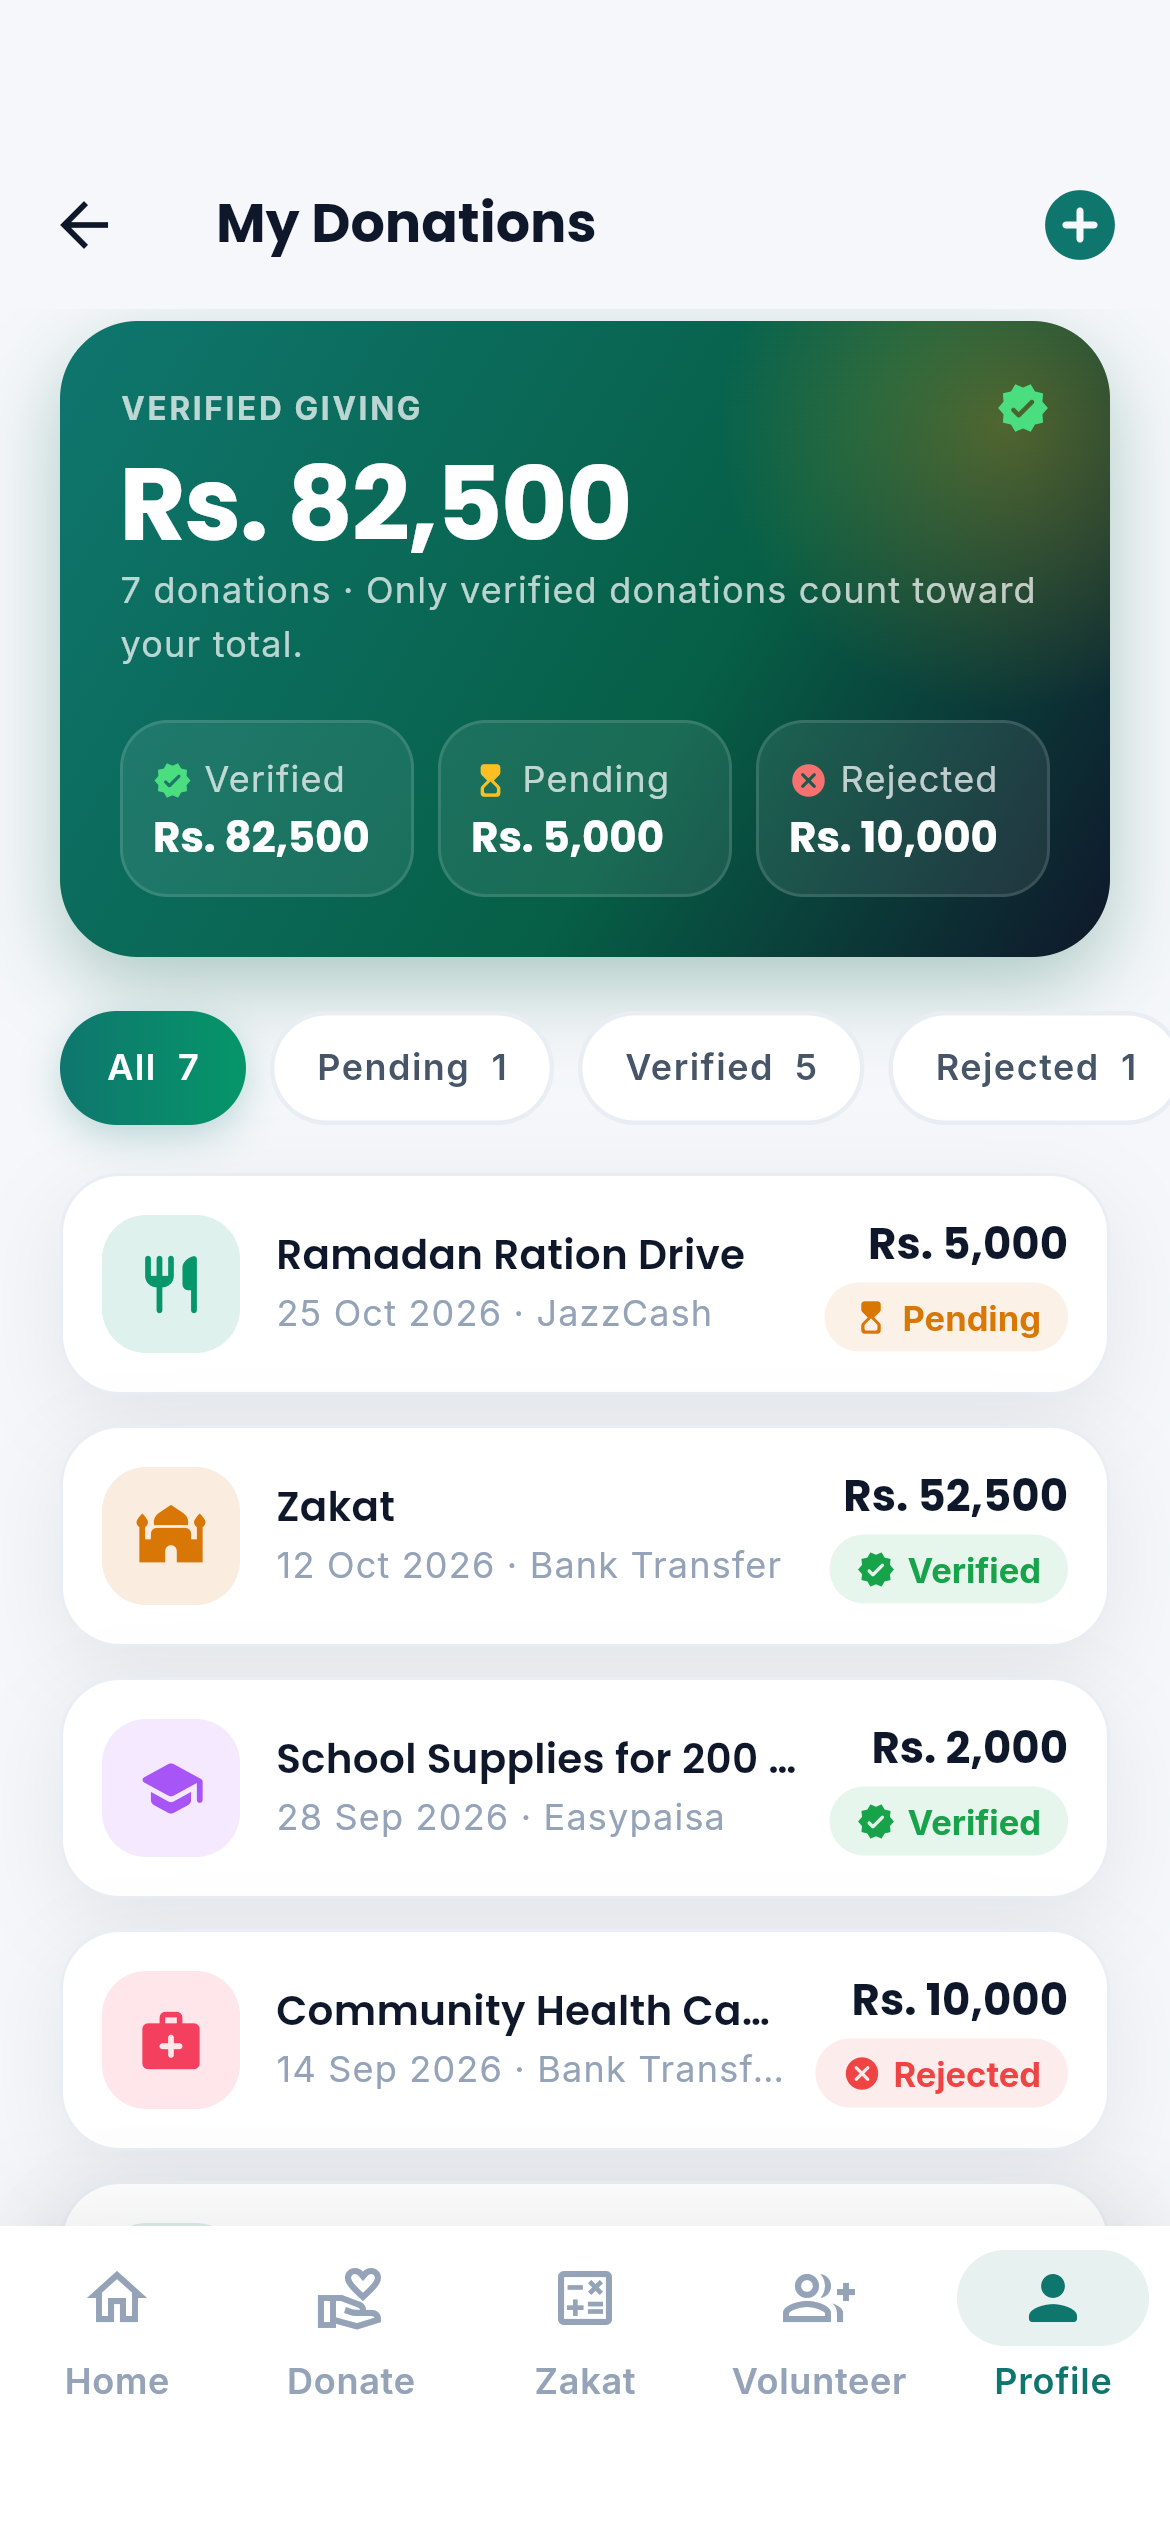
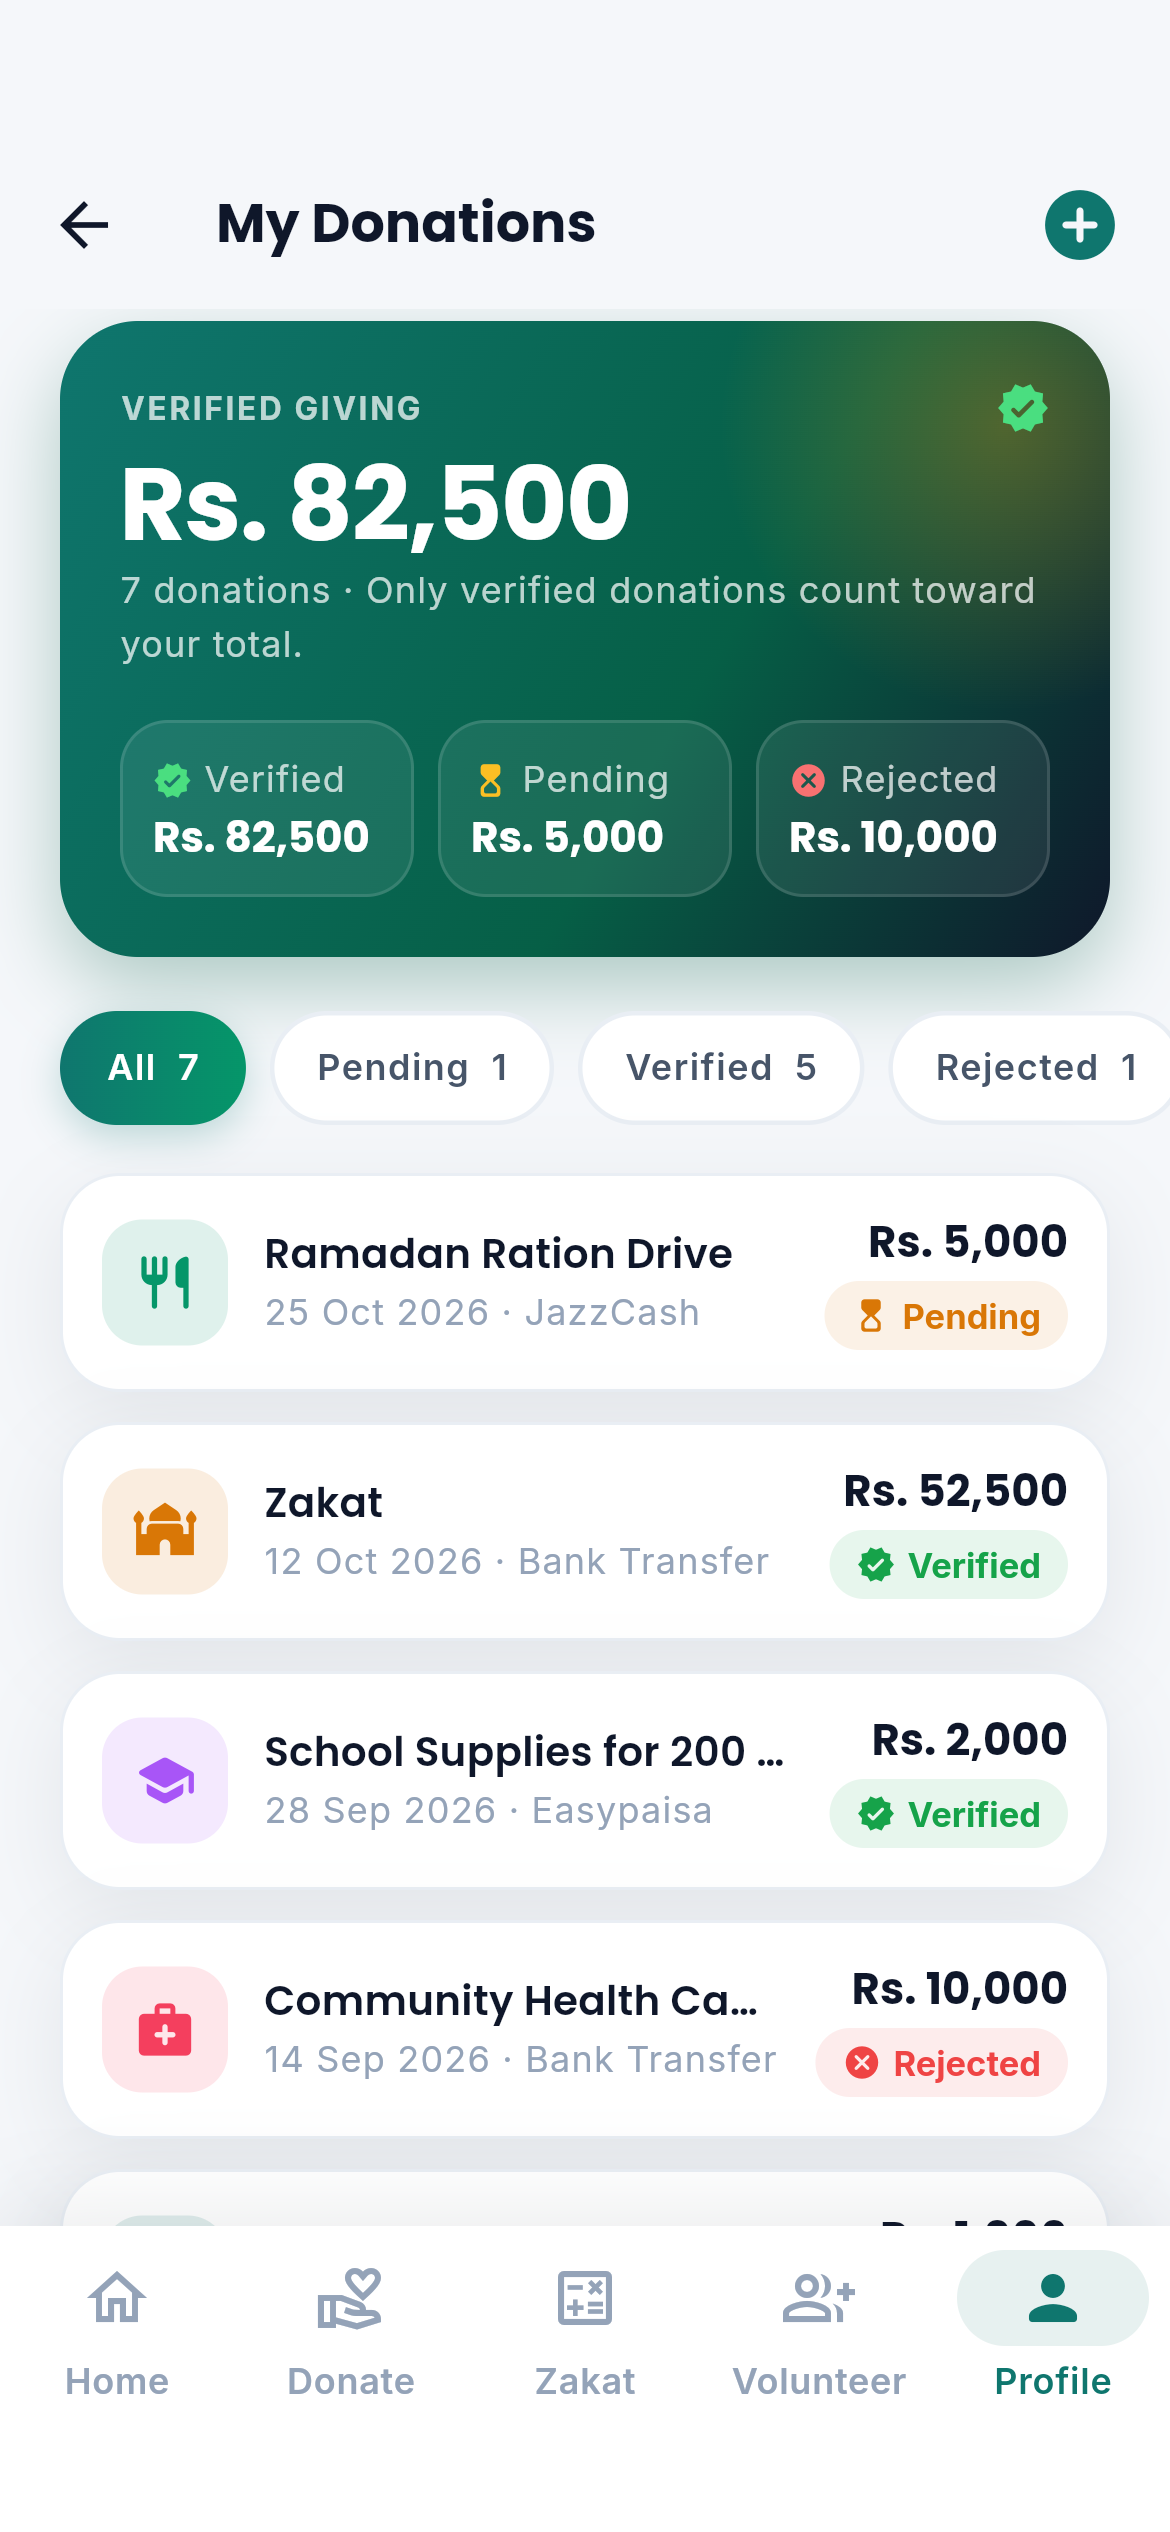
Complete remaining flows (work in progress)

diff --git a/lib/screens/volunteer_screen.dart b/lib/screens/volunteer_screen.dart
@@ -580,38 +580,42 @@ class _VolunteerHero extends StatelessWidget {
               ),
             ),
             const SizedBox(height: 16),
-            Row(
-              children: [
-                for (var i = 0; i < stats.length; i++) ...[
-                  if (i > 0) const SizedBox(width: 10),
-                  Expanded(
-                    child: GlassPanel(
-                      radius: 18,
-                      padding: const EdgeInsets.symmetric(
-                        vertical: 10,
-                        horizontal: 6,
-                      ),
-                      child: Column(
-                        children: [
-                          Text(
-                            stats[i].$1,
-                            textDirection: TextDirection.ltr,
-                            style: AppTheme.figure(18, color: Colors.white),
-                          ),
-                          Text(
-                            stats[i].$2,
-                            maxLines: 1,
-                            overflow: TextOverflow.ellipsis,
-                            style: context.text.bodySmall?.copyWith(
-                              color: Colors.white.withValues(alpha: 0.72),
+            IntrinsicHeight(
+              child: Row(
+                crossAxisAlignment: CrossAxisAlignment.stretch,
+                children: [
+                  for (var i = 0; i < stats.length; i++) ...[
+                    if (i > 0) const SizedBox(width: 10),
+                    Expanded(
+                      child: GlassPanel(
+                        radius: 18,
+                        padding: const EdgeInsets.symmetric(
+                          vertical: 10,
+                          horizontal: 6,
+                        ),
+                        child: Column(
+                          children: [
+                            Text(
+                              stats[i].$1,
+                              textDirection: TextDirection.ltr,
+                              style: AppTheme.figure(18, color: Colors.white),
                             ),
-                          ),
-                        ],
+                            Text(
+                              stats[i].$2,
+                              maxLines: 2,
+                              textAlign: TextAlign.center,
+                              style: context.text.bodySmall?.copyWith(
+                                color: Colors.white.withValues(alpha: 0.72),
+                                height: context.isUrdu ? 1.7 : 1.3,
+                              ),
+                            ),
+                          ],
+                        ),
                       ),
                     ),
-                  ),
+                  ],
                 ],
-              ],
+              ),
             ),
           ],
         ),

diff --git a/lib/data/strings.dart b/lib/data/strings.dart
@@ -515,8 +515,9 @@ class S {
   String get donationsLabel => _t('Donations', 'عطیات');
   String get preferences => _t('Preferences', 'ترجیحات');
   String get language => _t('Language', 'زبان');
-  String get languageHint =>
-      _t('English or Urdu, right-to-left', 'اردو یا انگریزی');
+  String get languageHint => _t('English or Urdu', 'اردو یا انگریزی');
+  String goldRate(String gold) =>
+      _t('Gold $gold per tola', 'سونا $gold فی تولہ');
   String get darkMode => _t('Dark mode', 'ڈارک موڈ');
   String get darkModeHint =>
       _t('Easier on the eyes at night', 'رات میں آنکھوں کے لیے آرام دہ');
@@ -580,6 +581,7 @@ class S {
   String get galleryTitleHighlight => _t('Impact', 'لمحات');
 
   // Contact
+  String get getInTouch => _t('Get In Touch', 'رابطہ کریں');
   String get contactTitleLead => _t("We'd Love To", 'ہم آپ سے');
   String get contactTitleHighlight => _t('Hear From You', 'سننا چاہیں گے');
   String get contactSubtitle => _t(

diff --git a/lib/widgets/common.dart b/lib/widgets/common.dart
@@ -66,7 +66,7 @@ class EyebrowPill extends StatelessWidget {
   Widget build(BuildContext context) {
     final palette = context.palette;
     final foreground = onDark ? Colors.white : palette.brand;
-    return Container(
+    final pill = Container(
       padding: const EdgeInsets.symmetric(horizontal: 12, vertical: 6),
       decoration: BoxDecoration(
         color: onDark ? Colors.white.withValues(alpha: 0.1) : palette.brandSoft,
@@ -96,6 +96,13 @@ class EyebrowPill extends StatelessWidget {
           ),
         ],
       ),
+    );
+    // Hug the label even when a list hands down a full-width constraint.
+    return Align(
+      alignment: AlignmentDirectional.centerStart,
+      widthFactor: 1,
+      heightFactor: 1,
+      child: pill,
     );
   }
 }

diff --git a/lib/screens/profile_screen.dart b/lib/screens/profile_screen.dart
@@ -50,10 +50,7 @@ class ProfileScreen extends StatelessWidget {
                           icon: Icons.calculate_rounded,
                           color: AppColors.amber600,
                           title: s.zakatCalculator,
-                          subtitle: s.ratesPill(
-                            rs(settings.rates.goldPerTola),
-                            rs(settings.rates.silverPerTola),
-                          ),
+                          subtitle: s.goldRate(rs(settings.rates.goldPerTola)),
                           onTap: () => context.go('/zakat'),
                         ),
                         _MenuTile(

diff --git a/lib/screens/contact_screen.dart b/lib/screens/contact_screen.dart
@@ -89,7 +89,7 @@ class _ContactScreenState extends State<ContactScreen> {
       body: ListView(
         padding: const EdgeInsets.fromLTRB(20, 4, 20, 32),
         children: [
-          EyebrowPill(label: s.contactUs, icon: Icons.support_agent_rounded),
+          EyebrowPill(label: s.getInTouch, icon: Icons.support_agent_rounded),
           const SizedBox(height: 10),
           HighlightTitle(
             lead: s.contactTitleLead,

diff --git a/lib/screens/donate_screen.dart b/lib/screens/donate_screen.dart
@@ -533,7 +533,7 @@ class _StepsStrip extends StatelessWidget {
                   const SizedBox(height: 6),
                   Text(
                     steps[i],
-                    maxLines: 1,
+                    maxLines: 2,
                     textAlign: TextAlign.center,
                     style: context.text.labelMedium?.copyWith(
                       color: palette.strong,

diff --git a/lib/screens/zakat_screen.dart b/lib/screens/zakat_screen.dart
@@ -460,7 +460,7 @@ class _HeroFigure extends StatelessWidget {
             color: Colors.white.withValues(alpha: 0.7),
           ),
         ),
-        const SizedBox(height: 2),
+        SizedBox(height: context.isUrdu ? 6 : 2),
         FittedBox(
           fit: BoxFit.scaleDown,
           alignment: AlignmentDirectional.centerStart,

diff --git a/lib/widgets/donation_tile.dart b/lib/widgets/donation_tile.dart
@@ -194,7 +194,7 @@ class DonationTile extends StatelessWidget {
           IconTile(
             icon: donation.cause.icon,
             color: donation.cause.color,
-            size: 46,
+            size: 42,
           ),
           const SizedBox(width: 12),
           Expanded(
